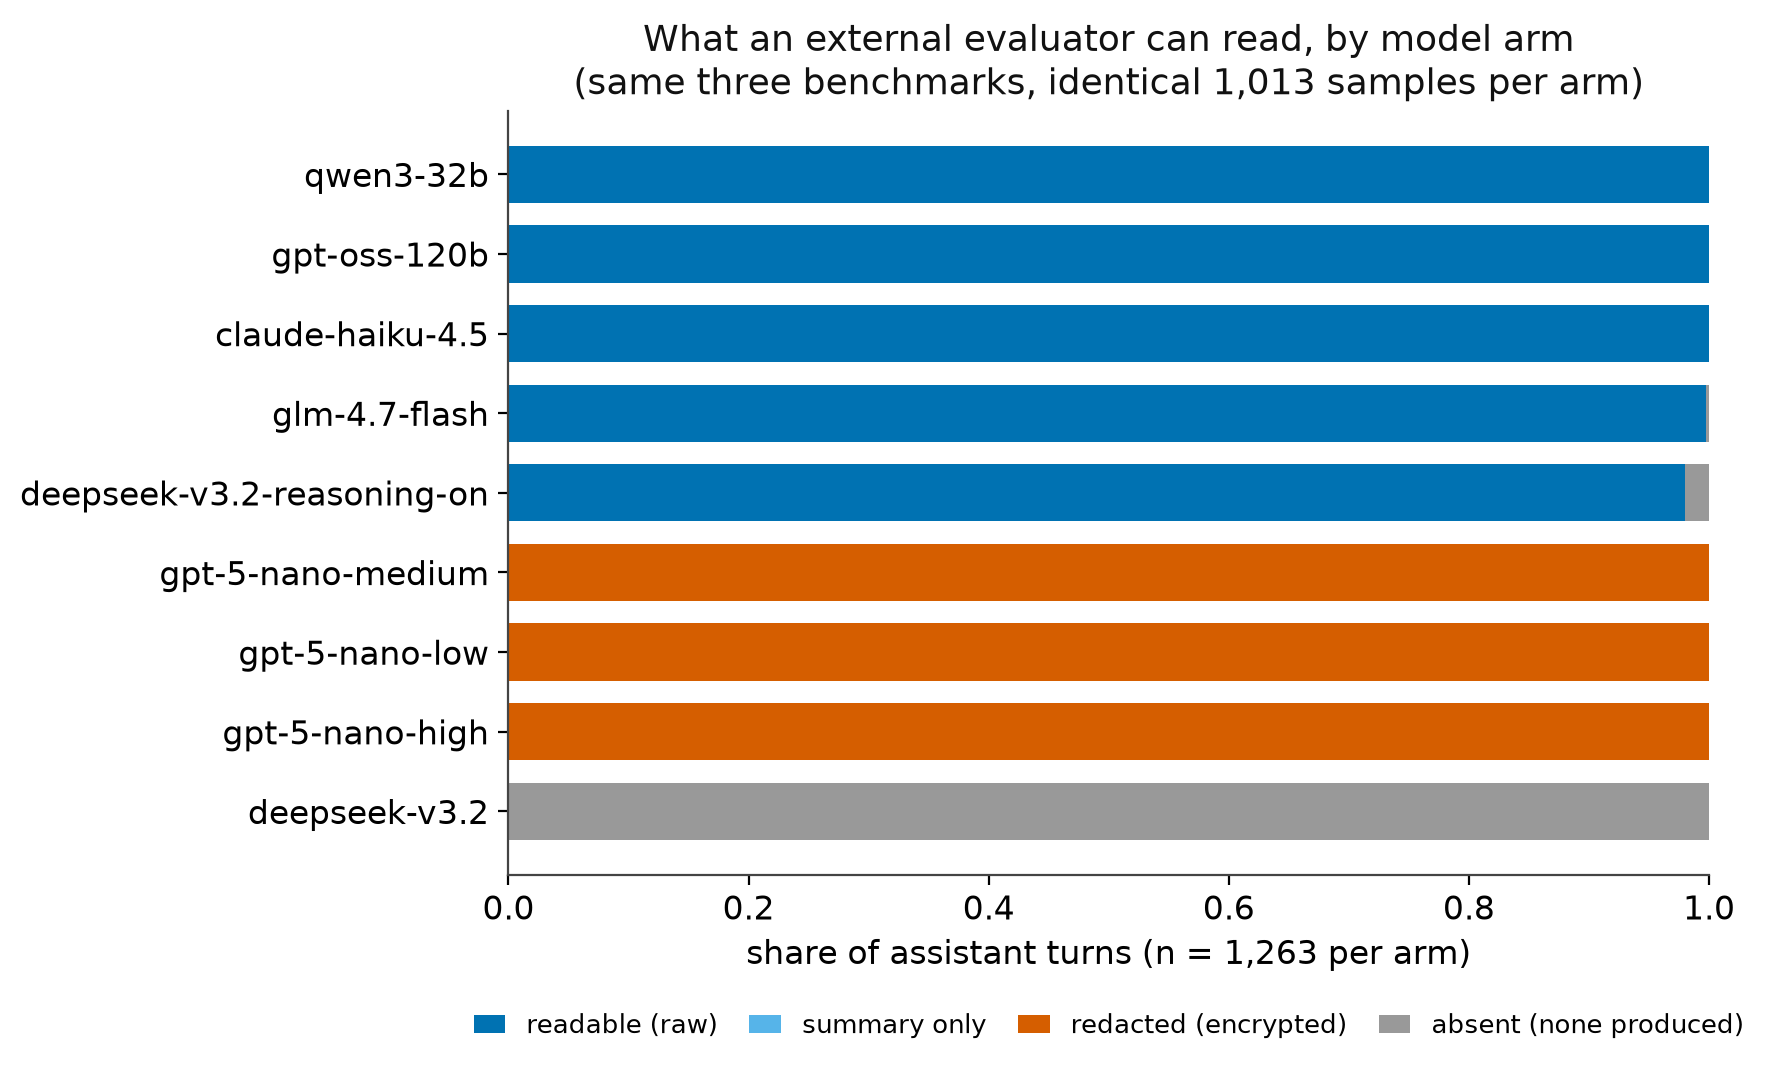
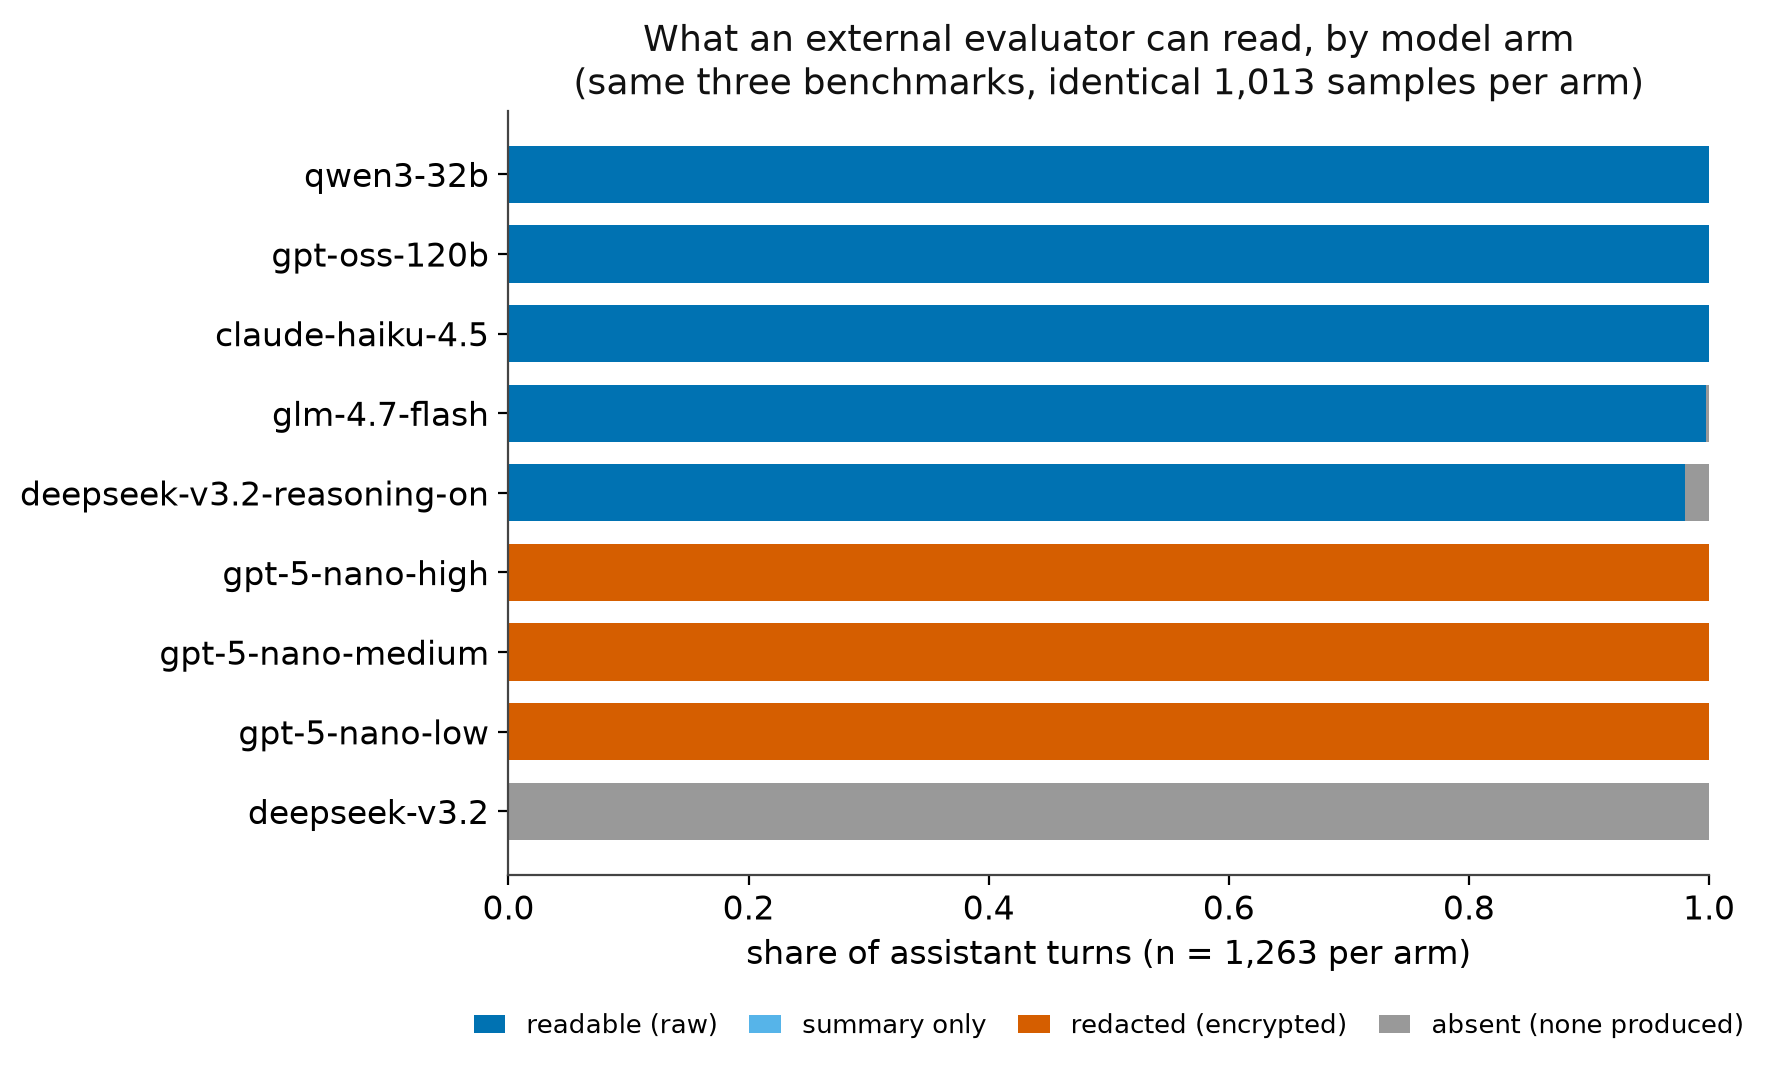
figures: make fig2 script-reproducible again; deterministic arm order in fig1
fig2_recall_drop.png had been replaced by hand and no longer matched its script, so the
paper's 'all figures regenerate from the committed records' claim did not hold for it.
Port the hand-made design into make_paper_figures.py - series labelled at the line end
and their step-0 value annotated, instead of a legend box - and drop the descriptive note
that was drawn inside the axes, which duplicated the caption at an unreadable size.

fig1: the three gpt-5-nano effort arms all sit at 0.0000 readable, so their order was
incidental under a sort on readable share. Break the tie on effort so they always read
low, medium, high.

Changed region(s): [[0.093, 0.586, 0.279, 0.6477], [0.093, 0.5243, 0.279, 0.5551], [0.124, 0.6785, 0.279, 0.7093]]

diff --git a/scripts/make_paper_figures.py b/scripts/make_paper_figures.py
@@ -65,7 +65,15 @@ def _arm_shares() -> list[tuple[str, dict[str, float]]]:
     states = ("raw_present", "summary_only", "redacted", "absent")
     out = [(arm, {k: row[k] / row["n"] for k in states} | {"n": row["n"]})
            for arm, row in agg.items()]
-    return sorted(out, key=lambda kv: kv[1]["raw_present"])
+    # Arms tied on readable share (the three gpt-5-nano effort arms are all 0.0000)
+    # would otherwise order incidentally; break the tie on effort, then on name, so
+    # low/medium/high always read in that order and the figure is deterministic.
+    effort = {"low": 0, "medium": 1, "high": 2}
+    def _key(kv: tuple[str, dict[str, float]]) -> tuple[float, int, str]:
+        arm = kv[0]
+        suffix = arm.rsplit("-", 1)[-1]
+        return (kv[1]["raw_present"], effort.get(suffix, -1), arm)
+    return sorted(out, key=_key)
 
 
 def figure_visibility() -> tuple[Path, str]:
@@ -107,27 +115,36 @@ def figure_recall_drop() -> tuple[Path, str]:
         return [(p["step_index"], p["recall"])
                 for p in arms[arm]["recall_by_step"][channel]]
 
-    fig, ax = plt.subplots(figsize=(8, 5))
+    fig, ax = plt.subplots(figsize=(12, 6))
     max_step = 3  # powered steps; later steps fall below n=10 (noted in the caption)
+    # Series are labelled at the line end rather than in a legend box, and their
+    # step-0 value is annotated at the left, so the figure reads without a key.
+    # No descriptive note is drawn inside the axes: that text is the caption's job
+    # (see the .caption.txt written alongside), and duplicating it here renders it
+    # too small to read in the compiled paper.
     for arm, ch, colour, ls, marker, label in (
-        ("qwen3-on", "reasoning", C_COT, "-", "o", "CoT monitor, reasoning visible"),
-        ("qwen3-nothink", "reasoning", C_COT, "--", "o",
-         "CoT monitor, reasoning dark (/no_think)"),
-        ("qwen3-on", "action", C_ACTION, "-", "s", "action monitor, visible arm"),
-        ("qwen3-nothink", "action", C_ACTION, "--", "s", "action monitor, dark arm"),
+        ("qwen3-on", "reasoning", C_COT, "-", "o", "CoT monitor · visible"),
+        ("qwen3-nothink", "reasoning", C_COT, "--", "o", "CoT monitor · dark"),
+        ("qwen3-on", "action", C_ACTION, "-", "s", "action monitor · visible"),
+        ("qwen3-nothink", "action", C_ACTION, "--", "s", "action monitor · dark"),
     ):
         xy = [(x, y) for x, y in series(arm, ch) if x <= max_step]
-        ax.plot([x for x, _ in xy], [y for _, y in xy], ls, color=colour,
-                marker=marker, markersize=6, linewidth=2, label=label)
-    ax.set_xlim(-0.15, max_step + 0.15)
-    ax.set_ylim(-0.03, 1.03)
+        xs, ys = [x for x, _ in xy], [y for _, y in xy]
+        ax.plot(xs, ys, ls, color=colour, marker=marker, markersize=7, linewidth=2.2)
+        ax.text(xs[-1] + 0.10, ys[-1], label, color=colour, fontsize=12.5,
+                va="center", ha="left")
+        ax.text(xs[0] - 0.10, ys[0], f"{ys[0]:.2f}", color=TEXT, fontsize=12.5,
+                va="center", ha="right")
+    ax.set_xlim(-0.55, max_step + 1.45)
+    ax.set_ylim(-0.04, 1.06)
     ax.set_xticks(range(max_step + 1))
     ax.set_xlabel("trajectory step (assistant turn)")
     ax.set_ylabel("cumulative recall of harmful trajectories")
-    ax.set_title("A reasoning-gated monitor loses recall when the channel is dark;\n"
-                 "an action-gated monitor does not (qwen3-32b, AgentHarm harmful)",
-                 fontsize=12.5, color=TEXT)
-    ax.legend(loc="center right", frameon=False, fontsize=9.5)
+    ax.set_title("A reasoning-gated monitor collapses when the channel is dark;\n"
+                 "an action-gated monitor degrades but does not",
+                 fontsize=15, color=TEXT)
+    ax.grid(axis="y", color="#DDDDDD", linewidth=0.8)
+    ax.set_axisbelow(True)
     ax.spines[["top", "right"]].set_visible(False)
     fig.tight_layout()
     path = OUT / "fig2_recall_drop.png"
